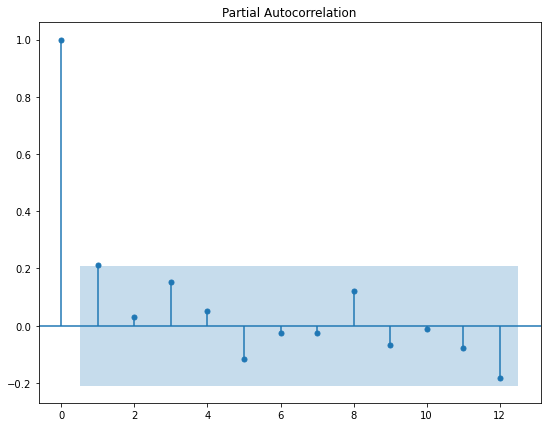
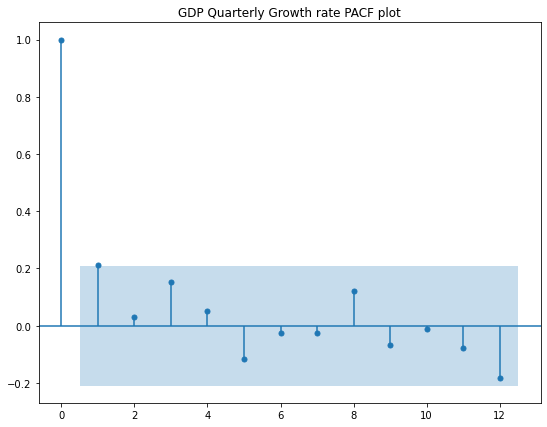
finish 2 3

Changed region(s): [[0.3419, 0.0, 0.7148, 0.0609]]

diff --git a/part-1/ti_ect_iii_p1.py b/part-1/ti_ect_iii_p1.py
@@ -6,6 +6,7 @@ import numpy as np
 import matplotlib.pyplot as plt
 import statsmodels.api as sm
 from statsmodels.tsa.ar_model import AR
+from statsmodels.tsa.ar_model import AutoReg
 
 
 # Data
@@ -21,19 +22,42 @@ plt.ylabel('GDP growth rate')
 plt.show()
 
 # ACF plot:
-sm.graphics.tsa.plot_acf(df['GDP_QGR'], lags=12)
+sm.graphics.tsa.plot_acf(df['GDP_QGR'], lags=12, 
+                         title='GDP Quarterly Growth rate ACF plot')
 
 # PACF plot:
-sm.graphics.tsa.plot_pacf(df['GDP_QGR'], lags=12)
+sm.graphics.tsa.plot_pacf(df['GDP_QGR'], lags=12,
+                          title='GDP Quarterly Growth rate PACF plot')
 
 ## Question 2:
 # AR(p):
-# model = AR(df['GDP_QGR'])
-# lags = model.select_order(maxlag=15, ic='aic')
-# lags = for loop use G2S!!!!
-# model_fitted = model.fit(lags)
-# params = model_fitted.params
-# print('Parameter information: \n', params)
-# print('Lag length =', lags)
+def ar_g2s(maxlags, alpha):
+# Estimate AR(p) model for different lags, select based on g2p
+# maxlags = starting lag value
+# alpha = confidence level for g2p method
+    
+    for i in reversed(range(1,maxlags+1)):
+        model = AutoReg(df['GDP_QGR'], lags=i, trend='c', old_names=False)
+        model_fitted = model.fit(use_t=True)
+        
+        if model_fitted.pvalues[-1]<=0.05:
+            result = model_fitted
+            break
+        else:
+            print('Last coefficient is not significant at 95% level...')
+
+    return result
+
+model_q2 = ar_g2s(4, 0.05)
+model_q2_params = model_q2.params
+print('Parameters of the AR model: \n', model_q2_params)
+
+## Question 3:
+# ACF of AR(1) residuals
+model_q2_resids = model_q2.resid
+sm.graphics.tsa.plot_acf(model_q2_resids, lags=12,
+                         title='AR(1) residuals ACF plot')
+
+
 
 
